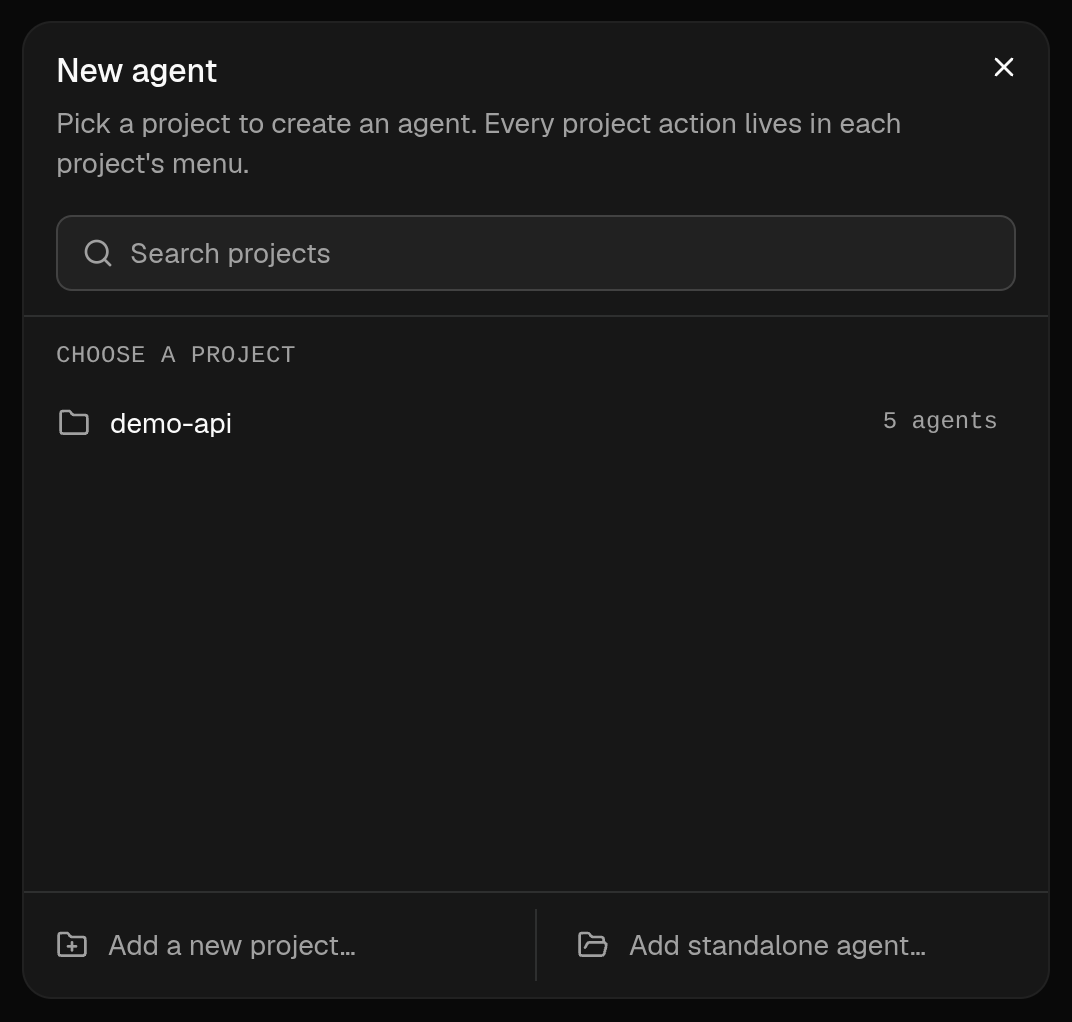
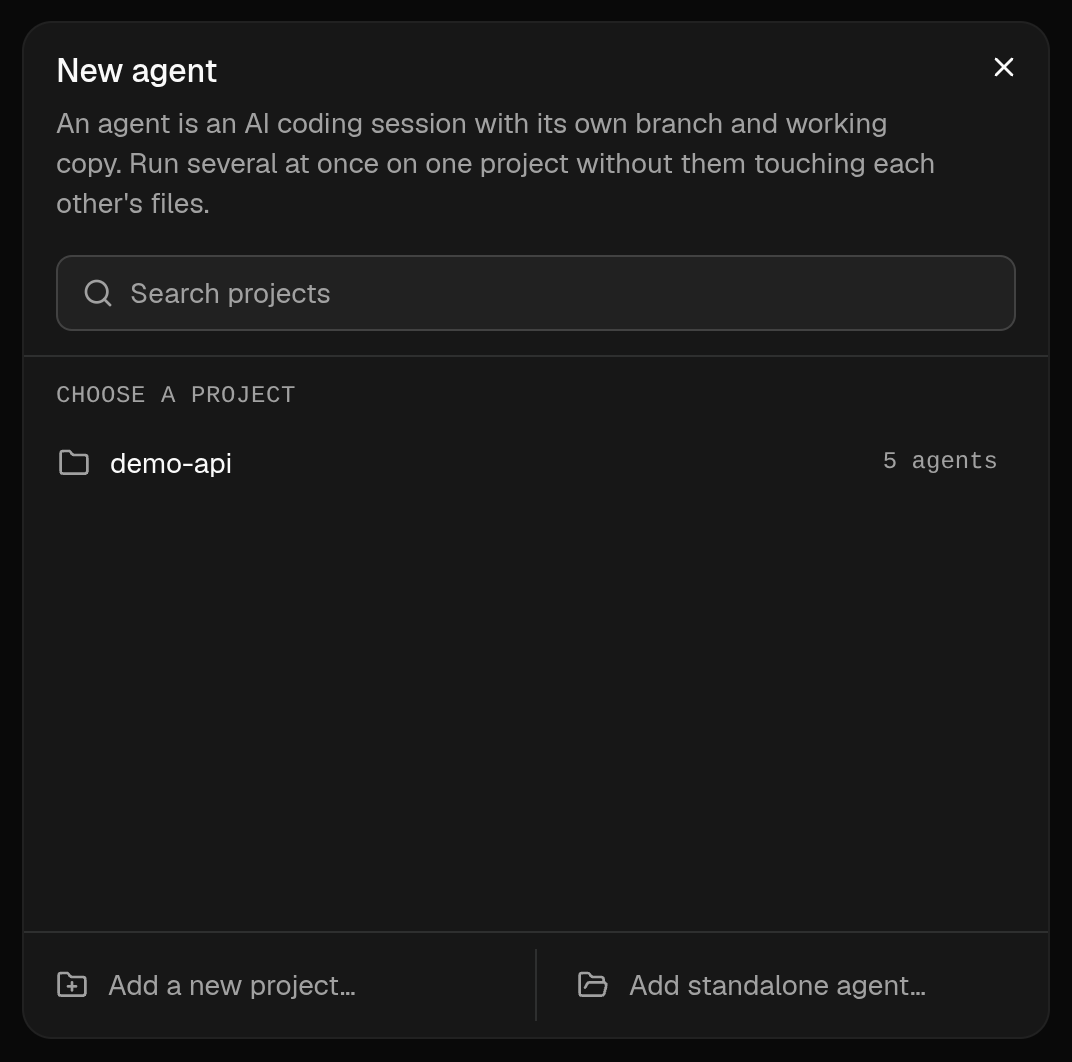
Explain what an agent is in the New agent dialog instead of pointing at the project menu, keep the picker's description from leaving one word on its last line, and reshoot its docs screenshot

diff --git a/crates/dux-web/web/src/components/ProjectList.tsx b/crates/dux-web/web/src/components/ProjectList.tsx
@@ -94,7 +94,7 @@ export function ProjectList({
     <>
       <DialogHeader className="shrink-0 p-4 pb-3">
         <DialogTitle>{title}</DialogTitle>
-        <DialogDescription>{description}</DialogDescription>
+        <DialogDescription className="text-pretty">{description}</DialogDescription>
         <div className="mt-2 flex items-center gap-2 rounded-md border border-input bg-input/30 px-3 max-md:min-h-10">
           <Search className="size-4 shrink-0 text-muted-foreground" />
           <input

diff --git a/crates/dux-web/web/src/components/NewAgentPickerDialog.tsx b/crates/dux-web/web/src/components/NewAgentPickerDialog.tsx
@@ -57,7 +57,7 @@ const INTENT_COPY = {
   new: {
     title: "New agent",
     description:
-      "Pick a project to create an agent. Every project action lives in each project's menu.",
+      "An agent is an AI coding session with its own branch and working copy. Run several at once on one project without them touching each other's files.",
   },
   from_pr: {
     title: "New agent from PR",
